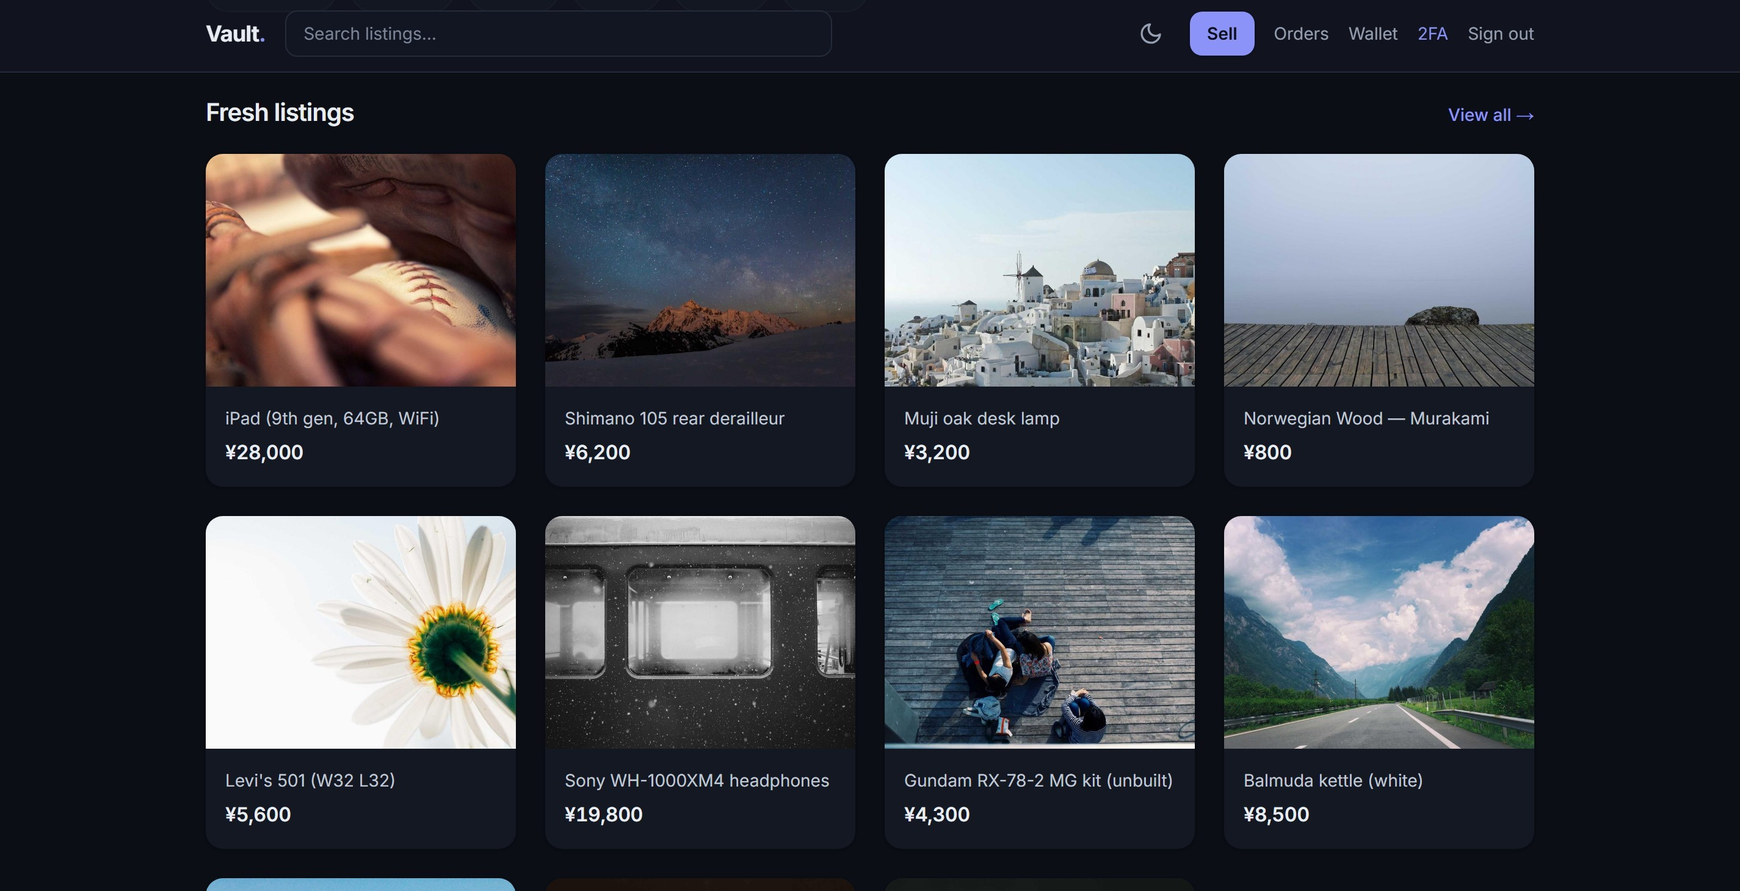
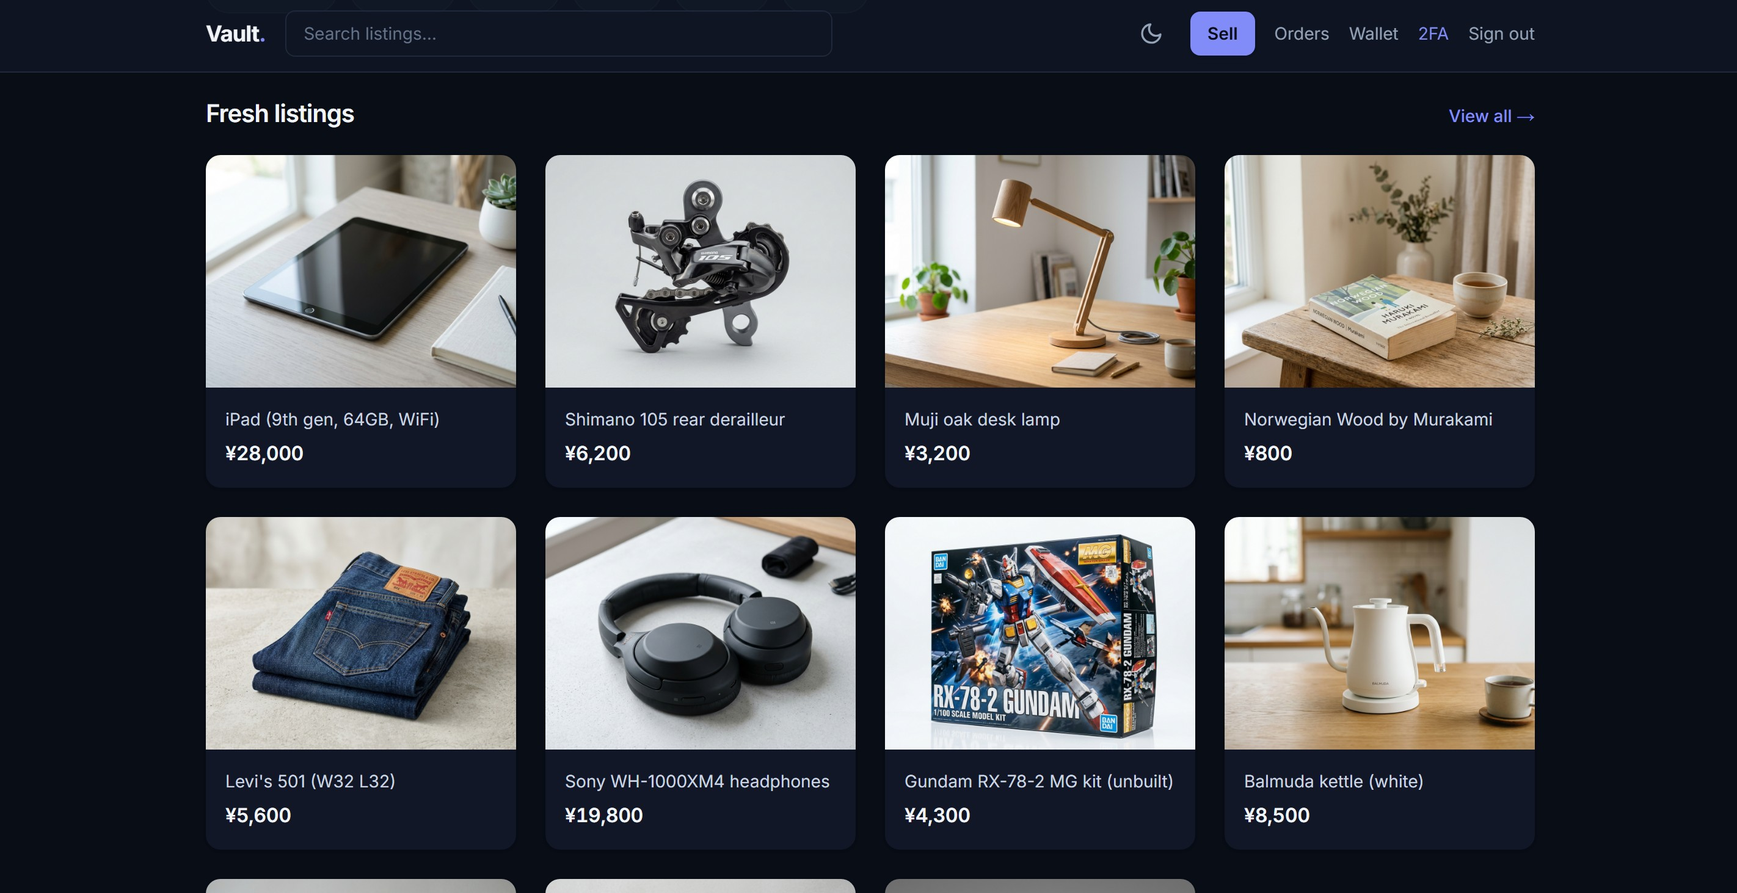
update images and links

diff --git a/app/projects/page.tsx b/app/projects/page.tsx
@@ -37,7 +37,7 @@ export default function ProjectsPage() {
                     <div className="p-6 flex flex-col flex-1">
                         <div className="mb-4 flex-1">
                             <Link href="/projects/vault">
-                                <h3 className="text-xl font-bold text-slate-900 dark:text-white mb-2 group-hover:text-blue-500 transition-colors">Vault</h3>
+                                <h3 className="text-xl font-bold text-slate-900 dark:text-white mb-2 group-hover:text-emerald-500 transition-colors">Vault</h3>
                             </Link>
                             <p className="text-sm text-slate-600 dark:text-slate-400 line-clamp-3">
                                 An online marketplace where people buy and sell to each other. It has its own secure sign-in, holds payments safely until an order arrives, and uses AI to help write listings.
@@ -51,14 +51,14 @@ export default function ProjectsPage() {
                                 <span className="text-xs font-medium px-2 py-1 rounded-md bg-slate-100 dark:bg-slate-800 text-slate-600 dark:text-slate-300">Next.js</span>
                             </div>
                             <div className="flex items-center justify-between pt-4 border-t border-slate-100 dark:border-slate-800/50">
-                                <Link href="/projects/vault" className="flex items-center gap-1 text-sm font-bold text-slate-700 dark:text-slate-300 hover:text-blue-500 hover:gap-2 transition-all">
+                                <Link href="/projects/vault" className="flex items-center gap-1 text-sm font-bold text-slate-900 dark:text-white hover:text-emerald-500 hover:gap-2 transition-all">
                                     View Project <ArrowRight className="w-4 h-4" />
                                 </Link>
                                 <a
                                     href="https://github.com/NichoHo/vault"
                                     target="_blank"
                                     rel="noopener noreferrer"
-                                    className="flex items-center gap-1 text-sm font-bold text-blue-600 dark:text-blue-400 hover:text-blue-500 transition-colors"
+                                    className="flex items-center gap-1 text-sm font-bold text-slate-900 dark:text-white hover:text-emerald-500 transition-colors"
                                 >
                                     Source <ExternalLink className="w-3.5 h-3.5" />
                                 </a>
@@ -77,7 +77,7 @@ export default function ProjectsPage() {
                     <div className="p-6 flex flex-col flex-1">
                         <div className="mb-4 flex-1">
                             <Link href="/projects/tally">
-                                <h3 className="text-xl font-bold text-slate-900 dark:text-white mb-2 group-hover:text-teal-500 transition-colors">Tally</h3>
+                                <h3 className="text-xl font-bold text-slate-900 dark:text-white mb-2 group-hover:text-emerald-500 transition-colors">Tally</h3>
                             </Link>
                             <p className="text-sm text-slate-600 dark:text-slate-400 line-clamp-3">
                                 The engine that moves money between accounts inside a banking or e-wallet app. Built so money can never go missing and the same payment is never charged twice. It also flags suspicious transfers.
@@ -91,16 +91,16 @@ export default function ProjectsPage() {
                                 <span className="text-xs font-medium px-2 py-1 rounded-md bg-slate-100 dark:bg-slate-800 text-slate-600 dark:text-slate-300">PostgreSQL</span>
                             </div>
                             <div className="flex items-center justify-between pt-4 border-t border-slate-100 dark:border-slate-800/50">
-                                <Link href="/projects/tally" className="flex items-center gap-1 text-sm font-bold text-slate-700 dark:text-slate-300 hover:text-teal-500 hover:gap-2 transition-all">
+                                <Link href="/projects/tally" className="flex items-center gap-1 text-sm font-bold text-slate-900 dark:text-white hover:text-emerald-500 hover:gap-2 transition-all">
                                     View Project <ArrowRight className="w-4 h-4" />
                                 </Link>
                                 <a
-                                    href="https://github.com/NichoHo/tally"
+                                    href="https://tally-three-umber.vercel.app/"
                                     target="_blank"
                                     rel="noopener noreferrer"
-                                    className="flex items-center gap-1 text-sm font-bold text-teal-600 dark:text-teal-400 hover:text-teal-500 transition-colors"
+                                    className="flex items-center gap-1 text-sm font-bold text-slate-900 dark:text-white hover:text-emerald-500 transition-colors"
                                 >
-                                    Source <ExternalLink className="w-3.5 h-3.5" />
+                                    Live Site <ExternalLink className="w-3.5 h-3.5" />
                                 </a>
                             </div>
                         </div>
@@ -117,7 +117,7 @@ export default function ProjectsPage() {
                     <div className="p-6 flex flex-col flex-1">
                         <div className="mb-4 flex-1">
                             <Link href="/projects/localist">
-                                <h3 className="text-xl font-bold text-slate-900 dark:text-white mb-2 group-hover:text-fuchsia-500 transition-colors">Localist</h3>
+                                <h3 className="text-xl font-bold text-slate-900 dark:text-white mb-2 group-hover:text-emerald-500 transition-colors">Localist</h3>
                             </Link>
                             <p className="text-sm text-slate-600 dark:text-slate-400 line-clamp-3">
                                 An online directory of local businesses with about 5,400 pages built to rank on Google. Owners can claim their page, edit it, and pay to move their listing higher up.
@@ -131,14 +131,14 @@ export default function ProjectsPage() {
                                 <span className="text-xs font-medium px-2 py-1 rounded-md bg-slate-100 dark:bg-slate-800 text-slate-600 dark:text-slate-300">Cloudflare</span>
                             </div>
                             <div className="flex items-center justify-between pt-4 border-t border-slate-100 dark:border-slate-800/50">
-                                <Link href="/projects/localist" className="flex items-center gap-1 text-sm font-bold text-slate-700 dark:text-slate-300 hover:text-fuchsia-500 hover:gap-2 transition-all">
+                                <Link href="/projects/localist" className="flex items-center gap-1 text-sm font-bold text-slate-900 dark:text-white hover:text-emerald-500 hover:gap-2 transition-all">
                                     View Project <ArrowRight className="w-4 h-4" />
                                 </Link>
                                 <a
                                     href="https://github.com/NichoHo/Localist"
                                     target="_blank"
                                     rel="noopener noreferrer"
-                                    className="flex items-center gap-1 text-sm font-bold text-fuchsia-600 dark:text-fuchsia-400 hover:text-fuchsia-500 transition-colors"
+                                    className="flex items-center gap-1 text-sm font-bold text-slate-900 dark:text-white hover:text-emerald-500 transition-colors"
                                 >
                                     Source <ExternalLink className="w-3.5 h-3.5" />
                                 </a>
@@ -171,14 +171,14 @@ export default function ProjectsPage() {
                                 <span className="text-xs font-medium px-2 py-1 rounded-md bg-slate-100 dark:bg-slate-800 text-slate-600 dark:text-slate-300">GRU</span>
                             </div>
                             <div className="flex items-center justify-between pt-4 border-t border-slate-100 dark:border-slate-800/50">
-                                <Link href="/projects/signlingo" className="flex items-center gap-1 text-sm font-bold text-slate-700 dark:text-slate-300 hover:text-emerald-500 hover:gap-2 transition-all">
+                                <Link href="/projects/signlingo" className="flex items-center gap-1 text-sm font-bold text-slate-900 dark:text-white hover:text-emerald-500 hover:gap-2 transition-all">
                                     View Project <ArrowRight className="w-4 h-4" />
                                 </Link>
                                 <a 
                                     href="https://signlingo-django.onrender.com" 
                                     target="_blank" 
                                     rel="noopener noreferrer" 
-                                    className="flex items-center gap-1 text-sm font-bold text-emerald-600 dark:text-emerald-400 hover:text-emerald-500 transition-colors"
+                                    className="flex items-center gap-1 text-sm font-bold text-slate-900 dark:text-white hover:text-emerald-500 transition-colors"
                                 >
                                     Live Site <ExternalLink className="w-3.5 h-3.5" />
                                 </a>
@@ -210,14 +210,14 @@ export default function ProjectsPage() {
                                 <span className="text-xs font-medium px-2 py-1 rounded-md bg-slate-100 dark:bg-slate-800 text-slate-600 dark:text-slate-300">MySQL</span>
                             </div>
                             <div className="flex items-center justify-between pt-4 border-t border-slate-100 dark:border-slate-800/50">
-                                <Link href="/projects/flux" className="flex items-center gap-1 text-sm font-bold text-slate-700 dark:text-slate-300 hover:text-emerald-500 hover:gap-2 transition-all">
+                                <Link href="/projects/flux" className="flex items-center gap-1 text-sm font-bold text-slate-900 dark:text-white hover:text-emerald-500 hover:gap-2 transition-all">
                                     View Project <ArrowRight className="w-4 h-4" />
                                 </Link>
                                 <a 
                                     href="https://flux-budget-app.onrender.com/" 
                                     target="_blank" 
                                     rel="noopener noreferrer" 
-                                    className="flex items-center gap-1 text-sm font-bold text-emerald-600 dark:text-emerald-400 hover:text-emerald-500 transition-colors"
+                                    className="flex items-center gap-1 text-sm font-bold text-slate-900 dark:text-white hover:text-emerald-500 transition-colors"
                                 >
                                     Live Site <ExternalLink className="w-3.5 h-3.5" />
                                 </a>
@@ -249,14 +249,14 @@ export default function ProjectsPage() {
                                 <span className="text-xs font-medium px-2 py-1 rounded-md bg-slate-100 dark:bg-slate-800 text-slate-600 dark:text-slate-300">ChromaDB</span>
                             </div>
                             <div className="flex items-center justify-between pt-4 border-t border-slate-100 dark:border-slate-800/50">
-                                <Link href="/projects/faq-assistant" className="flex items-center gap-1 text-sm font-bold text-slate-700 dark:text-slate-300 hover:text-emerald-500 hover:gap-2 transition-all">
+                                <Link href="/projects/faq-assistant" className="flex items-center gap-1 text-sm font-bold text-slate-900 dark:text-white hover:text-emerald-500 hover:gap-2 transition-all">
                                     View Project <ArrowRight className="w-4 h-4" />
                                 </Link>
                                 <a 
                                     href="https://faq-assistant.onrender.com/" 
                                     target="_blank" 
                                     rel="noopener noreferrer" 
-                                    className="flex items-center gap-1 text-sm font-bold text-emerald-600 dark:text-emerald-400 hover:text-emerald-500 transition-colors"
+                                    className="flex items-center gap-1 text-sm font-bold text-slate-900 dark:text-white hover:text-emerald-500 transition-colors"
                                 >
                                     Live Site <ExternalLink className="w-3.5 h-3.5" />
                                 </a>
@@ -275,7 +275,7 @@ export default function ProjectsPage() {
                     <div className="p-6 flex flex-col flex-1">
                         <div className="mb-4 flex-1">
                             <Link href="/projects/jet-engine-monitor">
-                                <h3 className="text-xl font-bold text-slate-900 dark:text-white mb-2 group-hover:text-rose-500 transition-colors">Jet Engine Monitor</h3>
+                                <h3 className="text-xl font-bold text-slate-900 dark:text-white mb-2 group-hover:text-emerald-500 transition-colors">Jet Engine Monitor</h3>
                             </Link>
                             <p className="text-sm text-slate-600 dark:text-slate-400 line-clamp-3">
                                 Predictive maintenance dashboard calculating Remaining Useful Life (RUL) of turbofan engines using NASA C-MAPSS data and Explainable AI.
@@ -289,14 +289,14 @@ export default function ProjectsPage() {
                                 <span className="text-xs font-medium px-2 py-1 rounded-md bg-slate-100 dark:bg-slate-800 text-slate-600 dark:text-slate-300">Streamlit</span>
                             </div>
                             <div className="flex items-center justify-between pt-4 border-t border-slate-100 dark:border-slate-800/50">
-                                <Link href="/projects/jet-engine-monitor" className="flex items-center gap-1 text-sm font-bold text-slate-700 dark:text-slate-300 hover:text-emerald-500 hover:gap-2 transition-all">
+                                <Link href="/projects/jet-engine-monitor" className="flex items-center gap-1 text-sm font-bold text-slate-900 dark:text-white hover:text-emerald-500 hover:gap-2 transition-all">
                                     View Project <ArrowRight className="w-4 h-4" />
                                 </Link>
                                 <a 
                                     href="https://colab.research.google.com/" 
                                     target="_blank" 
                                     rel="noopener noreferrer" 
-                                    className="flex items-center gap-1 text-sm font-bold text-emerald-600 dark:text-emerald-400 hover:text-emerald-500 transition-colors"
+                                    className="flex items-center gap-1 text-sm font-bold text-slate-900 dark:text-white hover:text-emerald-500 transition-colors"
                                 >
                                     Notebook <ExternalLink className="w-3.5 h-3.5" />
                                 </a>
@@ -328,10 +328,10 @@ export default function ProjectsPage() {
                                 <span className="text-xs font-medium px-2 py-1 rounded-md bg-slate-100 dark:bg-slate-800 text-slate-600 dark:text-slate-300">Pandas</span>
                             </div>
                             <div className="flex items-center justify-between pt-4 border-t border-slate-100 dark:border-slate-800/50">
-                                <Link href="/projects/f1-undercut-predictor" className="flex items-center gap-1 text-sm font-bold text-slate-700 dark:text-slate-300 hover:text-emerald-500 hover:gap-2 transition-all">
+                                <Link href="/projects/f1-undercut-predictor" className="flex items-center gap-1 text-sm font-bold text-slate-900 dark:text-white hover:text-emerald-500 hover:gap-2 transition-all">
                                     View Project <ArrowRight className="w-4 h-4" />
                                 </Link>
-                                <a href="https://f1-undercut-predictor.onrender.com" target="_blank" rel="noopener noreferrer" className="flex items-center gap-1 text-sm font-bold text-emerald-600 dark:text-emerald-400 hover:text-emerald-500 transition-colors">
+                                <a href="https://f1-undercut-predictor.onrender.com" target="_blank" rel="noopener noreferrer" className="flex items-center gap-1 text-sm font-bold text-slate-900 dark:text-white hover:text-emerald-500 transition-colors">
                                     Live Site <ExternalLink className="w-3.5 h-3.5" />
                                 </a>
                             </div>
@@ -362,10 +362,10 @@ export default function ProjectsPage() {
                                 <span className="text-xs font-medium px-2 py-1 rounded-md bg-slate-100 dark:bg-slate-800 text-slate-600 dark:text-slate-300">Tailwind CSS</span>
                             </div>
                             <div className="flex items-center justify-between pt-4 border-t border-slate-100 dark:border-slate-800/50">
-                                <Link href="/projects/nexus" className="flex items-center gap-1 text-sm font-bold text-slate-700 dark:text-slate-300 hover:text-emerald-500 hover:gap-2 transition-all">
+                                <Link href="/projects/nexus" className="flex items-center gap-1 text-sm font-bold text-slate-900 dark:text-white hover:text-emerald-500 hover:gap-2 transition-all">
                                     View Project <ArrowRight className="w-4 h-4" />
                                 </Link>
-                                <a href="https://www.nexdevsoftware.com/" target="_blank" rel="noopener noreferrer" className="flex items-center gap-1 text-sm font-bold text-emerald-600 dark:text-emerald-400 hover:text-emerald-500 transition-colors">
+                                <a href="https://www.nexdevsoftware.com/" target="_blank" rel="noopener noreferrer" className="flex items-center gap-1 text-sm font-bold text-slate-900 dark:text-white hover:text-emerald-500 transition-colors">
                                     Live Site <ExternalLink className="w-3.5 h-3.5" />
                                 </a>
                             </div>
@@ -396,10 +396,10 @@ export default function ProjectsPage() {
                                 <span className="text-xs font-medium px-2 py-1 rounded-md bg-slate-100 dark:bg-slate-800 text-slate-600 dark:text-slate-300">Tailwind CSS</span>
                             </div>
                              <div className="flex items-center justify-between pt-4 border-t border-slate-100 dark:border-slate-800/50">
-                                <Link href="/projects/asia-trading-export" className="flex items-center gap-1 text-sm font-bold text-slate-700 dark:text-slate-300 hover:text-emerald-500 hover:gap-2 transition-all">
+                                <Link href="/projects/asia-trading-export" className="flex items-center gap-1 text-sm font-bold text-slate-900 dark:text-white hover:text-emerald-500 hover:gap-2 transition-all">
                                     View Project <ArrowRight className="w-4 h-4" />
                                 </Link>
-                                <a href="https://www.asiatradingexport.com/" target="_blank" rel="noopener noreferrer" className="flex items-center gap-1 text-sm font-bold text-emerald-600 dark:text-emerald-400 hover:text-emerald-500 transition-colors">
+                                <a href="https://www.asiatradingexport.com/" target="_blank" rel="noopener noreferrer" className="flex items-center gap-1 text-sm font-bold text-slate-900 dark:text-white hover:text-emerald-500 transition-colors">
                                     Live Site <ExternalLink className="w-3.5 h-3.5" />
                                 </a>
                             </div>
@@ -429,10 +429,10 @@ export default function ProjectsPage() {
                                 <span className="text-xs font-medium px-2 py-1 rounded-md bg-slate-100 dark:bg-slate-800 text-slate-600 dark:text-slate-300">Tailwind CSS</span>
                             </div>
                             <div className="flex items-center justify-between pt-4 border-t border-slate-100 dark:border-slate-800/50">
-                                <Link href="/projects/hammouda-charcoal" className="flex items-center gap-1 text-sm font-bold text-slate-700 dark:text-slate-300 hover:text-emerald-500 hover:gap-2 transition-all">
+                                <Link href="/projects/hammouda-charcoal" className="flex items-center gap-1 text-sm font-bold text-slate-900 dark:text-white hover:text-emerald-500 hover:gap-2 transition-all">
                                     View Project <ArrowRight className="w-4 h-4" />
                                 </Link>
-                                <a href="https://www.hammoudacharcoal.com/" target="_blank" rel="noopener noreferrer" className="flex items-center gap-1 text-sm font-bold text-emerald-600 dark:text-emerald-400 hover:text-emerald-500 transition-colors">
+                                <a href="https://www.hammoudacharcoal.com/" target="_blank" rel="noopener noreferrer" className="flex items-center gap-1 text-sm font-bold text-slate-900 dark:text-white hover:text-emerald-500 transition-colors">
                                     Live Site <ExternalLink className="w-3.5 h-3.5" />
                                 </a>
                             </div>

diff --git a/app/page.tsx b/app/page.tsx
@@ -1,7 +1,7 @@
 "use client";
 
 import { motion } from "framer-motion";
-import { ArrowRight, Github, Linkedin, Mail, Download, ChevronRight, Calendar } from "lucide-react";
+import { ArrowRight, Github, Linkedin, Mail, Download, ChevronRight, Calendar, ExternalLink } from "lucide-react";
 import { ThemeToggle } from "@/components/ThemeToggle";
 import { Card } from "@/components/Card";
 import { Footer } from "@/components/Footer";
@@ -451,13 +451,13 @@ export default function Home() {
                                     </div>
                                     
                                     <a 
-                                        href="https://github.com/NichoHo/tally"
+                                        href="https://tally-three-umber.vercel.app/"
                                         target="_blank" 
                                         rel="noopener noreferrer"
                                         onClick={(e) => e.stopPropagation()} 
                                         className="inline-flex items-center gap-1.5 text-sm font-bold text-slate-600 dark:text-slate-400 hover:text-emerald-500 transition-colors sm:ml-auto"
                                     >
-                                        Source <Github className="w-3.5 h-3.5" />
+                                        Live Site <ExternalLink className="w-3.5 h-3.5" />
                                     </a>
                                 </div>
                             </div>

diff --git a/app/projects/tally/page.tsx b/app/projects/tally/page.tsx
@@ -1,7 +1,7 @@
 "use client";
 
 import { motion } from "framer-motion";
-import { ArrowLeft, Github, CheckCircle2 } from "lucide-react";
+import { ArrowLeft, Github, CheckCircle2, ExternalLink } from "lucide-react";
 import Link from "next/link";
 import { ThemeToggle } from "@/components/ThemeToggle";
 import { ImageCarousel } from "@/components/ImageCarousel";
@@ -46,6 +46,14 @@ export default function TallyPage() {
             </p>
 
             <div className="flex flex-wrap gap-6">
+                <a
+                    href="https://tally-three-umber.vercel.app/"
+                    target="_blank"
+                    rel="noopener noreferrer"
+                    className="inline-flex items-center gap-2 text-sm font-bold text-teal-600 dark:text-teal-400 hover:text-teal-500 transition-colors"
+                >
+                    <ExternalLink className="w-5 h-5" /> Live Website
+                </a>
                 <a
                     href="https://github.com/NichoHo/tally"
                     target="_blank"
